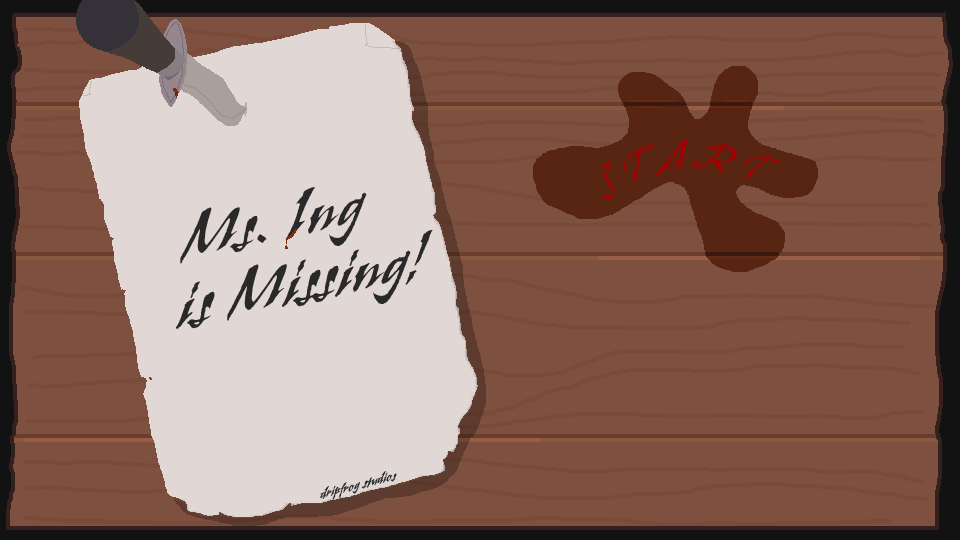
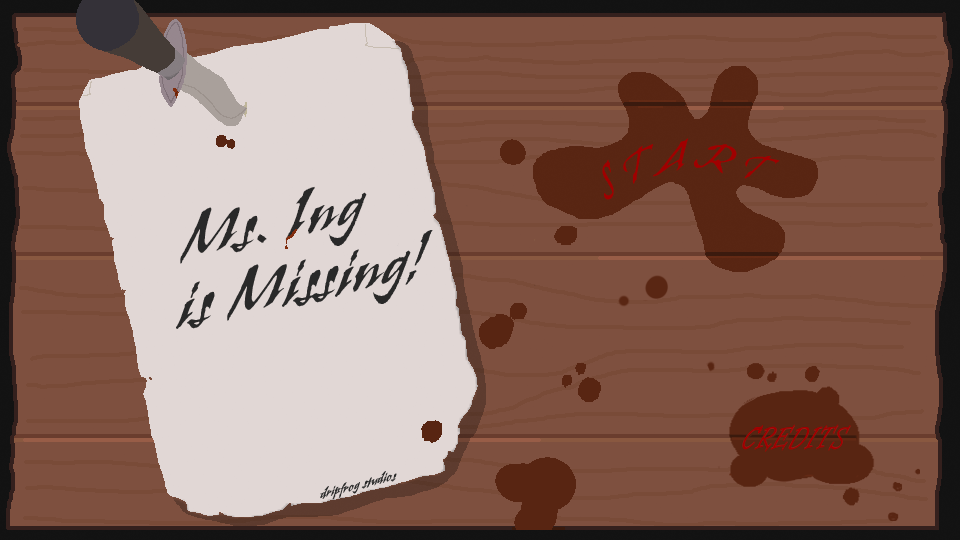
credits and stat sheet

diff --git a/src/Scenes/DressUp.js b/src/Scenes/DressUp.js
@@ -30,13 +30,18 @@ class DressUp extends Phaser.Scene {
         this.agentname = this.add.text(game.config.width/2 + 205, game.config.height/2 - 135,agentNames[1]);
 
         this.agentstr = this.add.text(game.config.width/2 - 250, game.config.height/2 - 60, "Strength: " + this.p2.stats[0]);
-        this.agentdex = this.add.text(game.config.width/2 - 250, game.config.height/2 - 20, "Dexterity: " + this.p2.stats[1]);
-        this.agentcon = this.add.text(game.config.width/2 - 250, game.config.height/2 + 20, "Constitution: " + this.p2.stats[2]);
-        this.agentint = this.add.text(game.config.width/2 - 250, game.config.height/2 + 60, "Intelligence: " + this.p2.stats[3]);
-        this.agentwis = this.add.text(game.config.width/2 - 250, game.config.height/2 + 100, "Wisdom: " + this.p2.stats[4]);
-        this.agentcha = this.add.text(game.config.width/2 - 250, game.config.height/2 + 140, "Charisma: " + this.p2.stats[5]);
+        this.agentdex = this.add.text(game.config.width/2 - 250, game.config.height/2 - 20, "Sneakiness: " + this.p2.stats[1]);
+        this.agentcon = this.add.text(game.config.width/2 - 250, game.config.height/2 + 20, "Tolerance: " + this.p2.stats[2]);
+        this.agentint = this.add.text(game.config.width/2 - 250, game.config.height/2 + 60, "Knowledge: " + this.p2.stats[3]);
+        this.agentwis = this.add.text(game.config.width/2 - 250, game.config.height/2 + 100, "Observation: " + this.p2.stats[4]);
+        this.agentcha = this.add.text(game.config.width/2 - 250, game.config.height/2 + 140, "Sexiness: " + this.p2.stats[5]);
 
         //move on
+        this.info = this.add.image(game.config.width/2 - 300, game.config.height/2 + 140, 'info');
+        this.info.setInteractive();
+        //this.infoGraphic = this.add.image(0, 0,'stats');
+        //this.infoGraphic.alpha = 0.0;
+
         this.go = this.add.image(game.config.width/2 + 300, game.config.height/2 + 200, 'continue');
         this.go.setInteractive();
 
@@ -69,6 +74,9 @@ class DressUp extends Phaser.Scene {
         this.add.text(game.config.width/2 + 65, game.config.height/2 + 190, 'Purchase Shoes');
         this.redrawShoes.setInteractive();
 
+   
+
+
         
         this.input.on('gameobjectdown', (pointer, gameObject) =>
         {
@@ -78,6 +86,19 @@ class DressUp extends Phaser.Scene {
                 MenuMusic.stop();
                 ButtonClick.play();
                 this.scene.start("mansionScene");
+            }
+            else if(gameObject == this.info)
+            {
+                MenuMusic.stop();
+                ButtonClick.play();
+                this.scene.start("statGraphic");
+            }
+            else if(gameObject == this.infoGraphic)
+            {
+                ButtonClick.play();
+                this.infoGraphic.visible = false;
+                this.infoGraphic.disableInteractive() 
+                
             }
             else if(gameObject == this.selectNext)
             {
@@ -147,12 +168,26 @@ class DressUp extends Phaser.Scene {
 
     update() 
     {
+       // this.infoGraphic.visible = false;
+       // if(this.infoGraphic.visible)
+       // {
+       //     //show stats graphic
+      //     this.infoGraphic.alpha = 1; 
+       // }
+        //else
+        //{
+      //hide stats graphic
+     //  this.infoGraphic.alpha = 0.0; 
+       // }
+   
+
+
         this.agentstr.text = "Strength: " + this.trgt.stats[0];
-        this.agentdex.text = "Dexterity: " + this.trgt.stats[1];
-        this.agentcon.text = "Constitution: " + this.trgt.stats[2];
-        this.agentint.text = "Intelligence: " + this.trgt.stats[3];
-        this.agentwis.text = "Wisdom: " + this.trgt.stats[4];
-        this.agentcha.text = "Charisma: " + this.trgt.stats[5];
+        this.agentdex.text = "Sneakiness: " + this.trgt.stats[1];
+        this.agentcon.text = "Tolerance: " + this.trgt.stats[2];
+        this.agentint.text = "Knowledge: " + this.trgt.stats[3];
+        this.agentwis.text = "Observation: " + this.trgt.stats[4];
+        this.agentcha.text = "Sexiness: " + this.trgt.stats[5];
 
     }
 

diff --git a/src/Scenes/Mansion.js b/src/Scenes/Mansion.js
@@ -48,11 +48,11 @@ class Mansion extends Phaser.Scene {
 
         //make stats
         this.agentstr = this.add.text(-game.config.width/2, -game.config.height/2 + 80, "Strength: " + this.trgt.stats[0]).setScrollFactor(0).setScale(2);
-        this.agentdex = this.add.text(-game.config.width/2, -game.config.height/2 + 120, "Dexterity: " + this.trgt.stats[1]).setScrollFactor(0).setScale(2);
-        this.agentcon = this.add.text(-game.config.width/2, -game.config.height/2 + 160, "Constitution: " + this.trgt.stats[2]).setScrollFactor(0).setScale(2);
-        this.agentint = this.add.text(-game.config.width/2, -game.config.height/2 + 200, "Intelligence: " + this.trgt.stats[3]).setScrollFactor(0).setScale(2);
-        this.agentwis = this.add.text(-game.config.width/2, -game.config.height/2 + 240, "Wisdom: " + this.trgt.stats[4]).setScrollFactor(0).setScale(2);
-        this.agentcha = this.add.text(-game.config.width/2, -game.config.height/2 + 280, "Charisma: " + this.trgt.stats[5]).setScrollFactor(0).setScale(2);
+        this.agentdex = this.add.text(-game.config.width/2, -game.config.height/2 + 120, "Sneakiness: " + this.trgt.stats[1]).setScrollFactor(0).setScale(2);
+        this.agentcon = this.add.text(-game.config.width/2, -game.config.height/2 + 160, "Tolerance: " + this.trgt.stats[2]).setScrollFactor(0).setScale(2);
+        this.agentint = this.add.text(-game.config.width/2, -game.config.height/2 + 200, "Knowledge: " + this.trgt.stats[3]).setScrollFactor(0).setScale(2);
+        this.agentwis = this.add.text(-game.config.width/2, -game.config.height/2 + 240, "Observation: " + this.trgt.stats[4]).setScrollFactor(0).setScale(2);
+        this.agentcha = this.add.text(-game.config.width/2, -game.config.height/2 + 280, "Sexiness: " + this.trgt.stats[5]).setScrollFactor(0).setScale(2);
 
 
         //make pipheads
@@ -93,13 +93,12 @@ class Mansion extends Phaser.Scene {
 
 
 
-        
 
         //this is the actual interactive menu that pops up when hovering over button
         this.menuMain = this.add.tileSprite(-480, -290, 960, 540, 'interactiveMenu').setOrigin(0, 0).setScrollFactor(0).setScale(2);
         this.menu1 = this.add.tileSprite(-480, -290, 960, 540, 'interactiveTop').setOrigin(0, 0).setScrollFactor(0).setScale(2);
         this.menu2 = this.add.tileSprite(-480, -290, 960, 540, 'interactiveBottom').setOrigin(0, 0).setScrollFactor(0).setScale(2);
-        
+
         //set it to invis by default
         this.interactMen.alpha = 0.0;
         this.menuMain.alpha = 0.0;

diff --git a/src/Scenes/Menu.js b/src/Scenes/Menu.js
@@ -22,12 +22,18 @@ class Menu extends Phaser.Scene
         MenuMusic.play();
         
         this.go = this.add.rectangle(675, 165, 180, 100, 0xff0000);
+        this.gocredits = this.add.rectangle(800, 450, 180, 100, 0xff0000);
         this.go.setInteractive();
+        this.gocredits.setInteractive();
         this.go.input.alwaysEnabled = true;
         this.go.alpha = 0.0;
+        this.gocredits.input.alwaysEnabled = true;
+        this.gocredits.alpha = 0.0;
 
         this.go.on("pointerover", () => { this.menuHover.alpha = 1; })
         this.go.on("pointerout", () => { this.menuHover.alpha = 0.0; });
+        this.gocredits.on("pointerover", () => { this.menuHover.alpha = 1; })
+        this.gocredits.on("pointerout", () => { this.menuHover.alpha = 0.0; });
     
 
         //check if the left button is down on the mouse if so go to play
@@ -41,6 +47,13 @@ class Menu extends Phaser.Scene
                 ButtonClick.play();
 
                 this.scene.start("tutorialScene");
+            }
+            else if(gameObject == this.gocredits)
+            {
+                MenuMusic.stop();
+                ButtonClick.play();
+
+                this.scene.start("creditsScene");
             }
         }, this)
     }

diff --git a/src/Objects/Interaction.js b/src/Objects/Interaction.js
@@ -33,11 +33,11 @@ class Interaction extends Phaser.GameObjects.Container
         this.statstyle = { font: "30px Arial", fill: "#000000", align: "left", wordWrap: { width: 150 } };
         this.sts = new Phaser.GameObjects.Text(scene, middle - 150, y - 100, "", this.statstyle).setScrollFactor(0);
         this.sts.text += "STR: " + player.stats[0] + "\n\n";
-        this.sts.text += "DEX: " + player.stats[1] + "\n\n";
-        this.sts.text += "CON: " + player.stats[2] + "\n\n";
-        this.sts.text += "INT: " + player.stats[3] + "\n\n";
-        this.sts.text += "WIS: " + player.stats[4] + "\n\n";
-        this.sts.text += "CHA: " + player.stats[5] + "\n\n";
+        this.sts.text += "SNK: " + player.stats[1] + "\n\n";
+        this.sts.text += "TOL: " + player.stats[2] + "\n\n";
+        this.sts.text += "KNW: " + player.stats[3] + "\n\n";
+        this.sts.text += "OBV: " + player.stats[4] + "\n\n";
+        this.sts.text += "SEX: " + player.stats[5] + "\n\n";
         this.player = player;
         this.visible = false;
         this.add(this.Question);

diff --git a/src/Scenes/Load.js b/src/Scenes/Load.js
@@ -35,6 +35,7 @@ class Load extends Phaser.Scene
         this.load.image('continue', './assets/Images/ContinueButton.png');
         this.load.image('shuffle', './assets/Images/ShuffleButton.png');
         this.load.image('credits', './assets/Backgrounds/CreditGraphic.png');
+        this.load.image('stats', './assets/Backgrounds/StatsGraphic.png');
 
         //load intro animation
         this.load.atlas('introAtlas', './assets/Atlases/IntroFrames.png', "./assets/Atlases/IntroFrames.json");
@@ -45,6 +46,7 @@ class Load extends Phaser.Scene
         this.load.image('charBG', './assets/Images/SmallBackground.png')
         this.load.image('restartButton', './assets/Images/RestartButton.png')
         this.load.image('exclaim', './assets/Images/EventNotification.png')
+        this.load.image('info', './assets/Images/MoreoInfo.png')
 
         //interactive menu stuff vvv
         this.load.image('interactiveMenu', './assets/Images/InteractiveMain.png');

diff --git a/src/Scenes/StatBreakdown.js b/src/Scenes/StatBreakdown.js
@@ -1,0 +1,26 @@
+class StatGraphic extends Phaser.Scene 
+{
+    constructor()
+    {
+        super("statGraphic");
+    }
+
+    create() 
+    {
+        
+        //background creation
+        this.infoGraphic = this.add.tileSprite(0, 0, 1000, 1000, 'stats').setOrigin(0, 0);
+        ButtonClick = this.sound.add('button_click', 1);
+        let MenuMusic = this.sound.add('menu_music', 1);
+
+        MenuMusic.setLoop(true);
+        MenuMusic.play();
+        this.input.on('pointerdown', () => 
+        {
+            MenuMusic.stop();
+            ButtonClick.play();
+
+            this.scene.start('dressUpScene');
+        }, this)
+    }
+}

diff --git a/src/Scenes/CreditsScene.js b/src/Scenes/CreditsScene.js
@@ -1,0 +1,26 @@
+class Credits extends Phaser.Scene 
+{
+    constructor()
+    {
+        super("creditsScene");
+    }
+
+    create() 
+    {
+        
+        //background creation
+        this.infoGraphic = this.add.tileSprite(0, 0, 1000, 1000, 'credits').setOrigin(0, 0);
+        ButtonClick = this.sound.add('button_click', 1);
+        let MenuMusic = this.sound.add('menu_music', 1);
+
+        MenuMusic.setLoop(true);
+        MenuMusic.play();
+        this.input.on('pointerdown', () => 
+        {
+            MenuMusic.stop();
+            ButtonClick.play();
+
+            this.scene.start('menuScene');
+        }, this)
+    }
+}

diff --git a/index.html b/index.html
@@ -26,6 +26,8 @@
     <script src = "./src/Scenes/End.js"></script>
     <script src = "./src/Scenes/IntroLetter.js"></script>
     <script src = "./src/Scenes/Tutorial.js"></script>
+    <script src = "./src/Scenes/StatBreakdown.js"></script>
+    <script src = "./src/Scenes/CreditsScene.js"></script>
     <script src = "./src/main.js"></script>
 
 </body>

diff --git a/src/main.js b/src/main.js
@@ -19,7 +19,7 @@ let config = {
         width: 960,
         height: 540
     },
-    scene: [Load, Menu, Mansion, DressUp, CharacterSelection, End, Intro, Tutorial]
+    scene: [Load, Menu, Mansion, DressUp, CharacterSelection, StatGraphic, End, Intro, Tutorial, Credits]
 };
 
 
